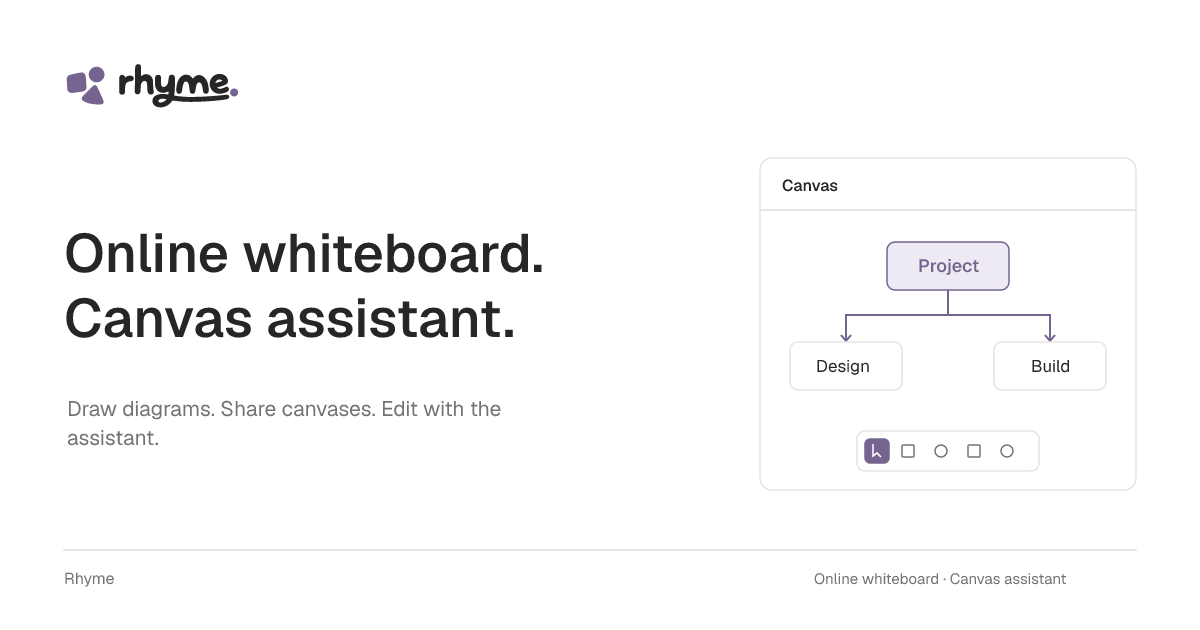
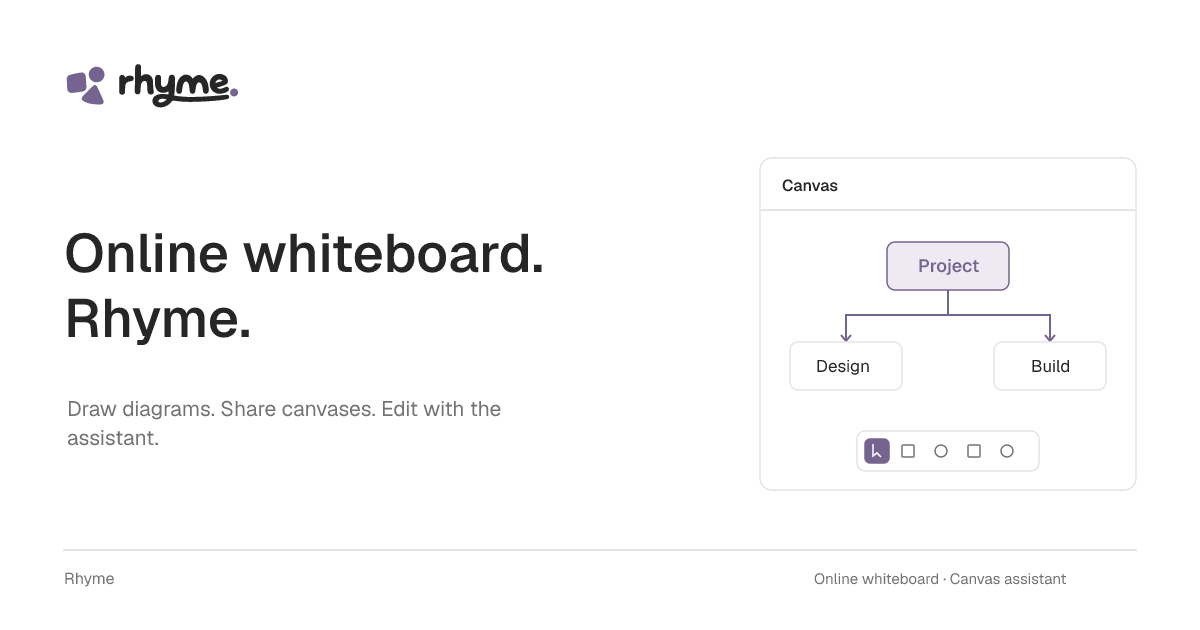
Simplify Rhyme chat layout and naming

Changed region(s): [[0.0617, 0.4524, 0.4317, 0.5429]]

diff --git a/apps/web/src/features/agent/agent-composer.tsx b/apps/web/src/features/agent/agent-composer.tsx
@@ -13,18 +13,16 @@ import {
   TooltipContent,
   TooltipTrigger,
 } from '@rhyme/ui/components/tooltip'
-import { AgentFace } from './agent-face'
-import type { AgentStatus } from './agent-status'
 import { AgentModelSelector } from './agent-model-selector'
 
 const SUGGESTIONS = [
   {
-    label: 'Create a mind map',
+    label: 'Mind map',
     prompt:
       'Create a clear mind map for a new project idea. Start with goals, users, and next steps.',
   },
   {
-    label: 'Create a flowchart',
+    label: 'Flowchart',
     prompt: 'Sketch a simple sign-up flow as a diagram with connected steps.',
   },
   {
@@ -37,36 +35,34 @@ const SUGGESTIONS = [
 export function AgentEmptyState({
   onSubmit,
   disabled,
-  status = 'idle',
 }: {
   onSubmit: (text: string) => void
   disabled?: boolean
-  status?: AgentStatus
 }) {
   return (
-    <div className="flex min-h-full flex-col justify-center px-3 py-5">
-      <AgentFace status={status} className="mb-5 size-12" />
-      <h3 className="text-lg font-medium tracking-tight">Canvas assistant</h3>
-      <p className="text-muted-foreground mt-2 text-sm leading-6">
-        Create diagrams or edit shapes using a prompt.
+    <div className="flex min-h-full flex-col justify-center px-4 py-5">
+      <h3 className="text-base font-medium tracking-tight">
+        What shall we make?
+      </h3>
+      <p className="text-muted-foreground mt-1.5 text-sm leading-5">
+        Turn an idea into a diagram, or reshape what’s here.
       </p>
-      <div className="mt-6 flex flex-col gap-2">
+      <div className="mt-4 flex flex-wrap gap-2">
         {SUGGESTIONS.map((suggestion) => (
           <Button
             key={suggestion.label}
             variant="outline"
-            className="h-11 justify-between rounded-lg px-3 text-sm font-normal shadow-none"
+            size="sm"
+            className="rounded-full font-normal shadow-none"
             disabled={disabled}
             onClick={() => onSubmit(suggestion.prompt)}
           >
             {suggestion.label}
-            <ArrowUp className="size-3 -rotate-45 text-muted-foreground" />
           </Button>
         ))}
       </div>
-      <p className="text-muted-foreground mt-6 text-[11px] leading-5">
-        The assistant can read the canvas and your selection. Use Undo to revert
-        its edits.
+      <p className="text-muted-foreground mt-4 text-[11px] leading-5">
+        Works with your canvas and selection. Undo any change.
       </p>
     </div>
   )
@@ -138,9 +134,9 @@ export function AgentComposer({
       >
         <InputGroupTextarea
           ref={textareaRef}
-          aria-label="Message the assistant"
+          aria-label="Message Rhyme"
           aria-describedby={hintId}
-          placeholder="Describe a change…"
+          placeholder="Ask Rhyme…"
           value={draft}
           rows={1}
           onChange={(event) => onDraft(event.target.value)}
@@ -164,7 +160,7 @@ export function AgentComposer({
         >
           <span id={hintId} className="sr-only">
             Press Enter to send. Shift + Enter adds a new line. You can edit
-            your draft while the assistant is responding or reconnecting.
+            your draft while Rhyme is responding or reconnecting.
           </span>
           <div className="flex min-w-0 items-center gap-2">
             <AgentModelSelector

diff --git a/apps/web/src/features/agent/agent-panel.tsx b/apps/web/src/features/agent/agent-panel.tsx
@@ -148,17 +148,17 @@ export function AgentPanel({
   return (
     <section
       className="bg-background flex h-full min-h-0 flex-col"
-      aria-label="Canvas assistant"
+      aria-label="Rhyme"
     >
-      <div className="bg-card flex h-12 shrink-0 items-center gap-2 border-b px-3">
+      <div className="flex shrink-0 items-center gap-2 border-b p-2">
         <AgentFace status={status} className="size-8" />
         <div className="min-w-0 flex-1">
-          <h2 className="truncate text-sm font-medium">Rhyme assistant</h2>
-          <p className="text-muted-foreground text-[11px]" role="status">
-            {status === 'idle'
-              ? 'Draw, edit, and organize shapes'
-              : agentStatusLabels[status]}
-          </p>
+          <h2 className="truncate text-sm font-medium">Rhyme</h2>
+          {status !== 'idle' && (
+            <p className="text-muted-foreground text-[11px]" role="status">
+              {agentStatusLabels[status]}
+            </p>
+          )}
         </div>
         <div className="flex items-center gap-0">
           <Button
@@ -186,7 +186,7 @@ export function AgentPanel({
           <Button
             variant="ghost"
             size="icon-sm"
-            aria-label="Close assistant"
+            aria-label="Close Rhyme"
             onClick={onClose}
           >
             <X className="size-3.5" />
@@ -445,11 +445,7 @@ function EmptyChat({
         viewportClassName="[&>div]:block!"
         viewportProps={{ 'aria-label': 'Assistant suggestions' }}
       >
-        <AgentEmptyState
-          status={pending ? 'connecting' : 'idle'}
-          disabled={pending}
-          onSubmit={submit}
-        />
+        <AgentEmptyState disabled={pending} onSubmit={submit} />
       </ScrollArea>
       <AgentComposer
         draft={draft}

diff --git a/apps/web/src/lib/seo.ts b/apps/web/src/lib/seo.ts
@@ -17,8 +17,8 @@ export const seoPages = {
     path: '/',
     title: 'Rhyme — Online whiteboard with a canvas assistant',
     description:
-      'Draw diagrams, organize ideas, and add images on an infinite canvas. Save your work, share viewer or editor access, and edit shapes with the Rhyme assistant.',
-    imageTitle: ['Online whiteboard.', 'Canvas assistant.'],
+      'Draw diagrams, organize ideas, and add images on an infinite canvas. Save your work, share viewer or editor access, and edit shapes with Rhyme.',
+    imageTitle: ['Online whiteboard.', 'Rhyme.'],
     imageDescription: 'Draw diagrams. Share canvases. Edit with the assistant.',
     imageAlt:
       'Rhyme online whiteboard with connected shapes and a canvas assistant',
@@ -98,7 +98,7 @@ export const seoPages = {
     path: '/chats',
     title: 'Conversations · Rhyme',
     description:
-      'Review your Rhyme assistant conversations, view messages and saved canvas changes, or continue a conversation.',
+      'Review your Rhyme conversations, view messages and saved canvas changes, or continue a conversation.',
     imageTitle: ['Canvas conversations.'],
     imageDescription: 'Review messages and continue canvas edits.',
     imageAlt:
@@ -109,7 +109,7 @@ export const seoPages = {
     path: '/activity',
     title: 'Agent activity · Rhyme',
     description:
-      'Review Rhyme assistant usage across your canvases, including agent runs, canvas actions, token usage, and average run time.',
+      'Review Rhyme usage across your canvases, including agent runs, canvas actions, token usage, and average run time.',
     imageTitle: ['Agent activity.'],
     imageDescription: 'Usage and performance across your canvases.',
     imageAlt: 'Rhyme agent activity preview with usage and performance metrics',

diff --git a/apps/web/src/features/agent/agent-launcher.tsx b/apps/web/src/features/agent/agent-launcher.tsx
@@ -1,3 +1,4 @@
+import type { ComponentProps } from 'react'
 import { Button } from '@rhyme/ui/components/button'
 import { cn } from '@rhyme/ui/lib/utils'
 import { AgentFace } from './agent-face'
@@ -7,22 +8,19 @@ import type { AgentStatus } from './agent-status'
 export function AgentLauncher({
   status = 'idle',
   open,
-  onClick,
+  ...props
 }: {
   status?: AgentStatus
   open: boolean
-  onClick: () => void
-}) {
+} & ComponentProps<typeof Button>) {
   return (
     <Button
       type="button"
       variant="ghost"
       size="icon"
-      onClick={onClick}
+      {...props}
       aria-label={
-        open
-          ? 'Close Rhyme assistant'
-          : `Open Rhyme assistant: ${agentStatusLabels[status]}`
+        open ? 'Close Rhyme' : `Open Rhyme: ${agentStatusLabels[status]}`
       }
       aria-expanded={open}
       className={cn(
@@ -39,7 +37,7 @@ export function AgentLauncher({
             : 'opacity-100',
         )}
       >
-        {open ? 'Close assistant' : agentStatusLabels[status]}
+        {open ? 'Close Rhyme' : agentStatusLabels[status]}
       </span>
     </Button>
   )

diff --git a/apps/web/src/routes/sign-in.tsx b/apps/web/src/routes/sign-in.tsx
@@ -44,7 +44,7 @@ function SignInPage() {
               { icon: Check, label: 'Automatic saving' },
               {
                 icon: Sparkles,
-                label: 'Canvas assistant',
+                label: 'Rhyme',
               },
               { icon: LayoutTemplate, label: 'Viewer and editor permissions' },
             ].map(({ icon: Icon, label }) => (

diff --git a/apps/web/src/features/agent/agent-chat.tsx b/apps/web/src/features/agent/agent-chat.tsx
@@ -182,7 +182,6 @@ export function AgentChat({
               {chat.messages.length === 0 ? (
                 <MessageScrollerItem messageId="empty">
                   <AgentEmptyState
-                    status={status}
                     disabled={!chat.connected || chat.configSaving}
                     onSubmit={submit}
                   />
